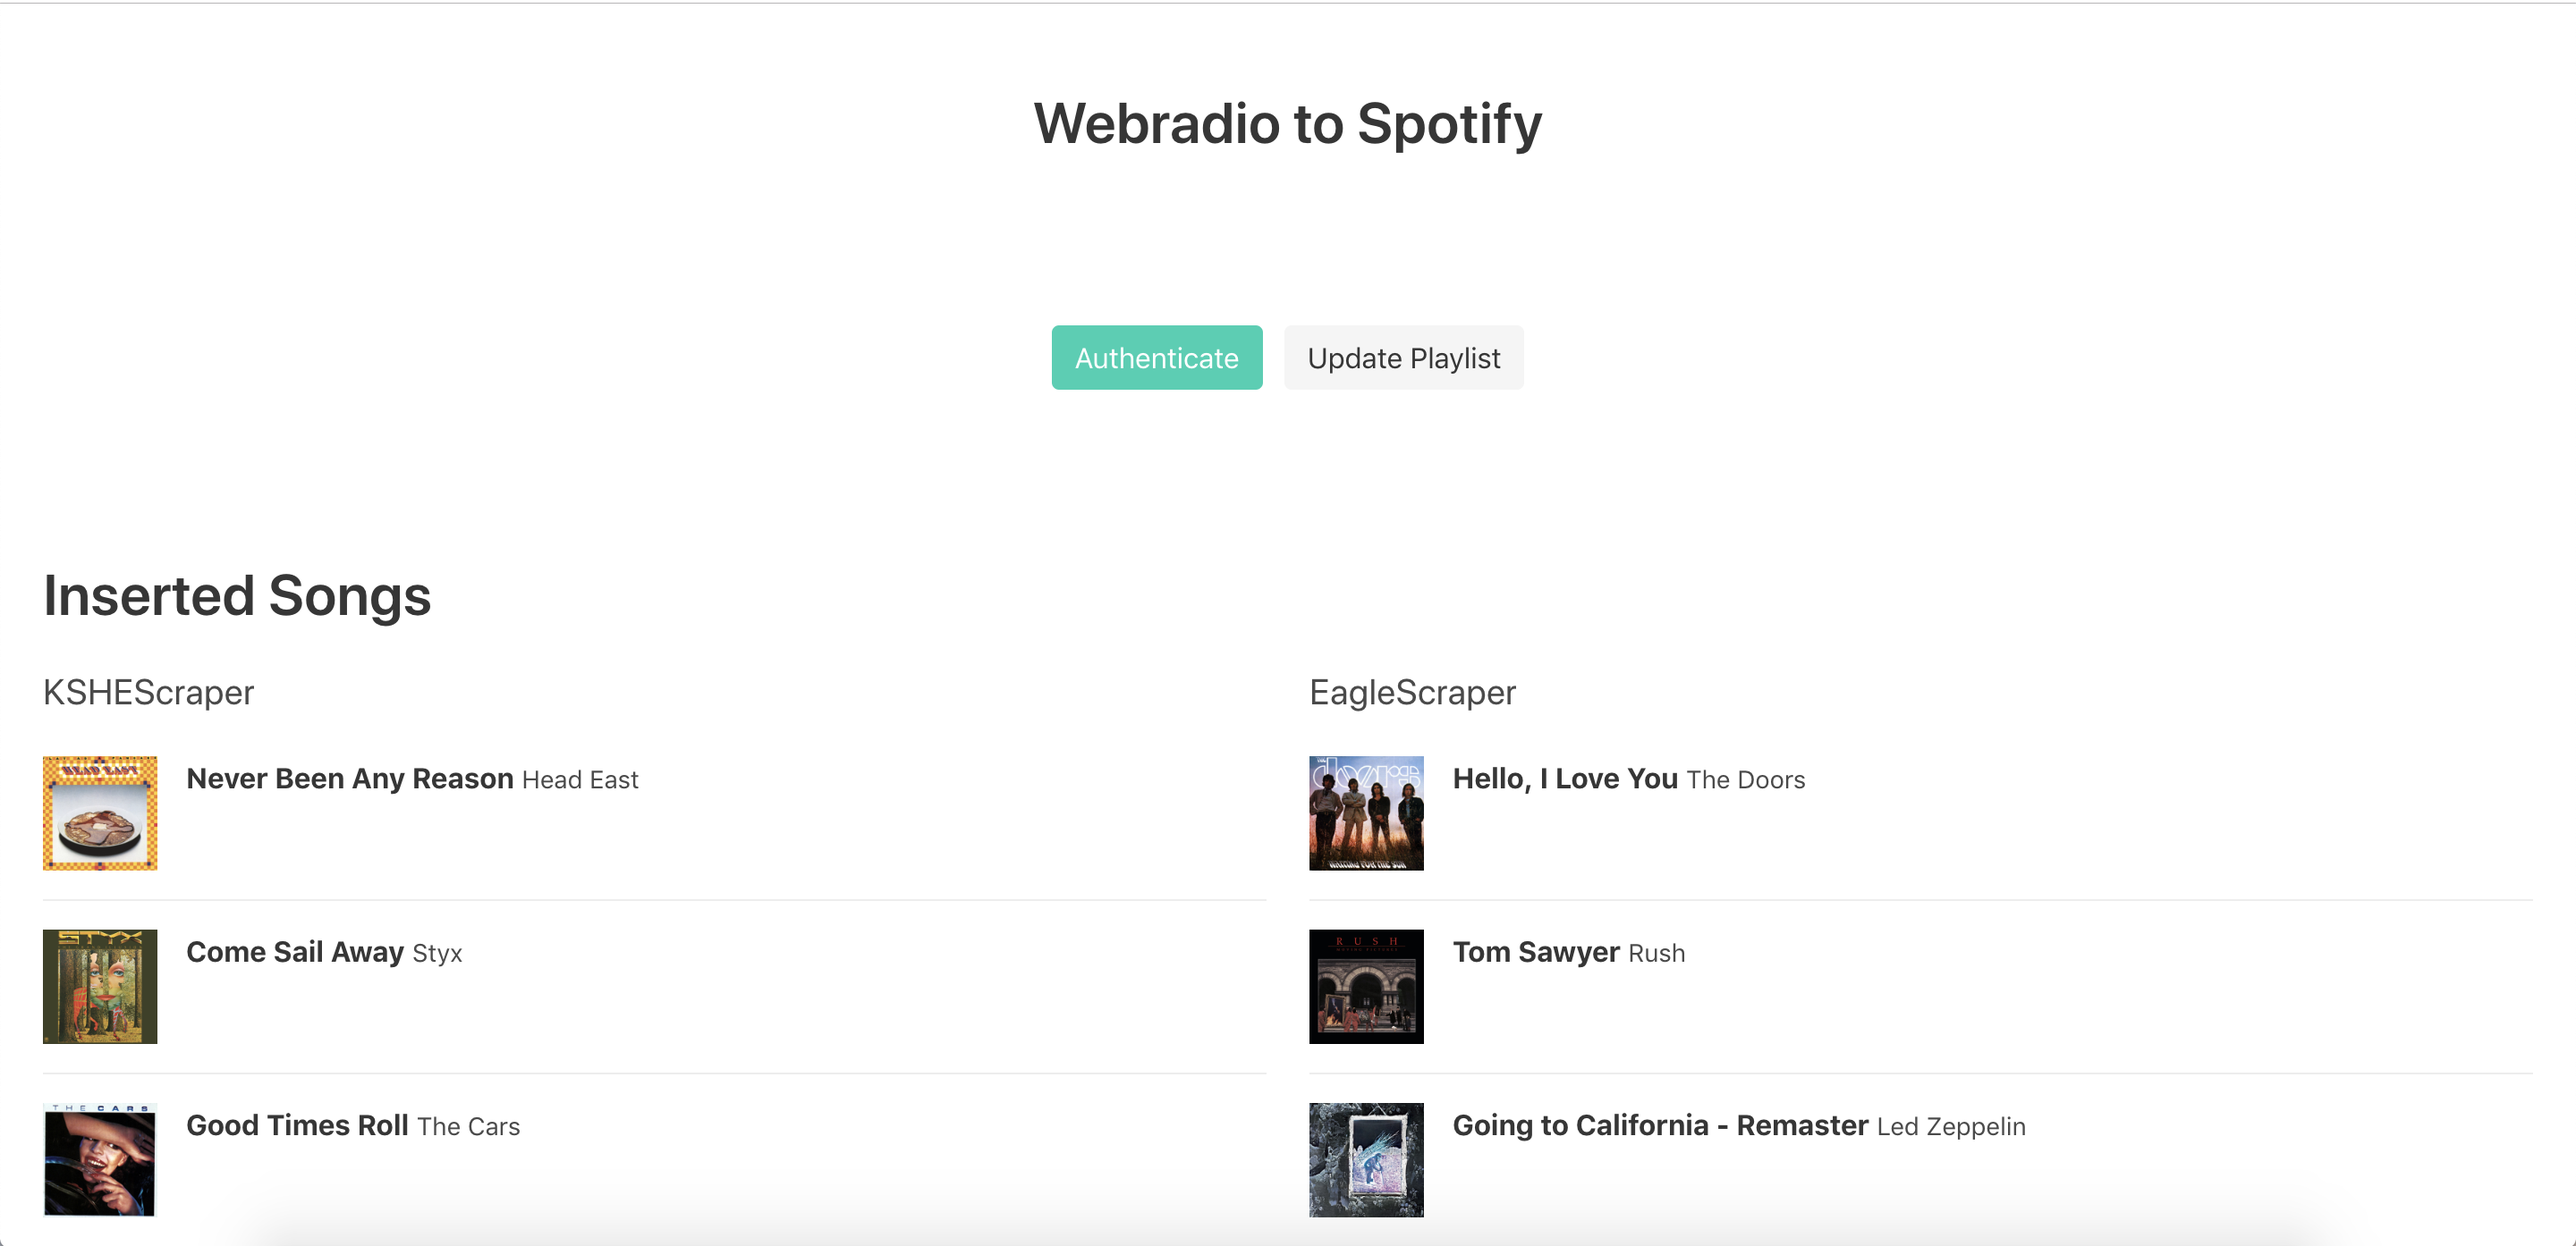
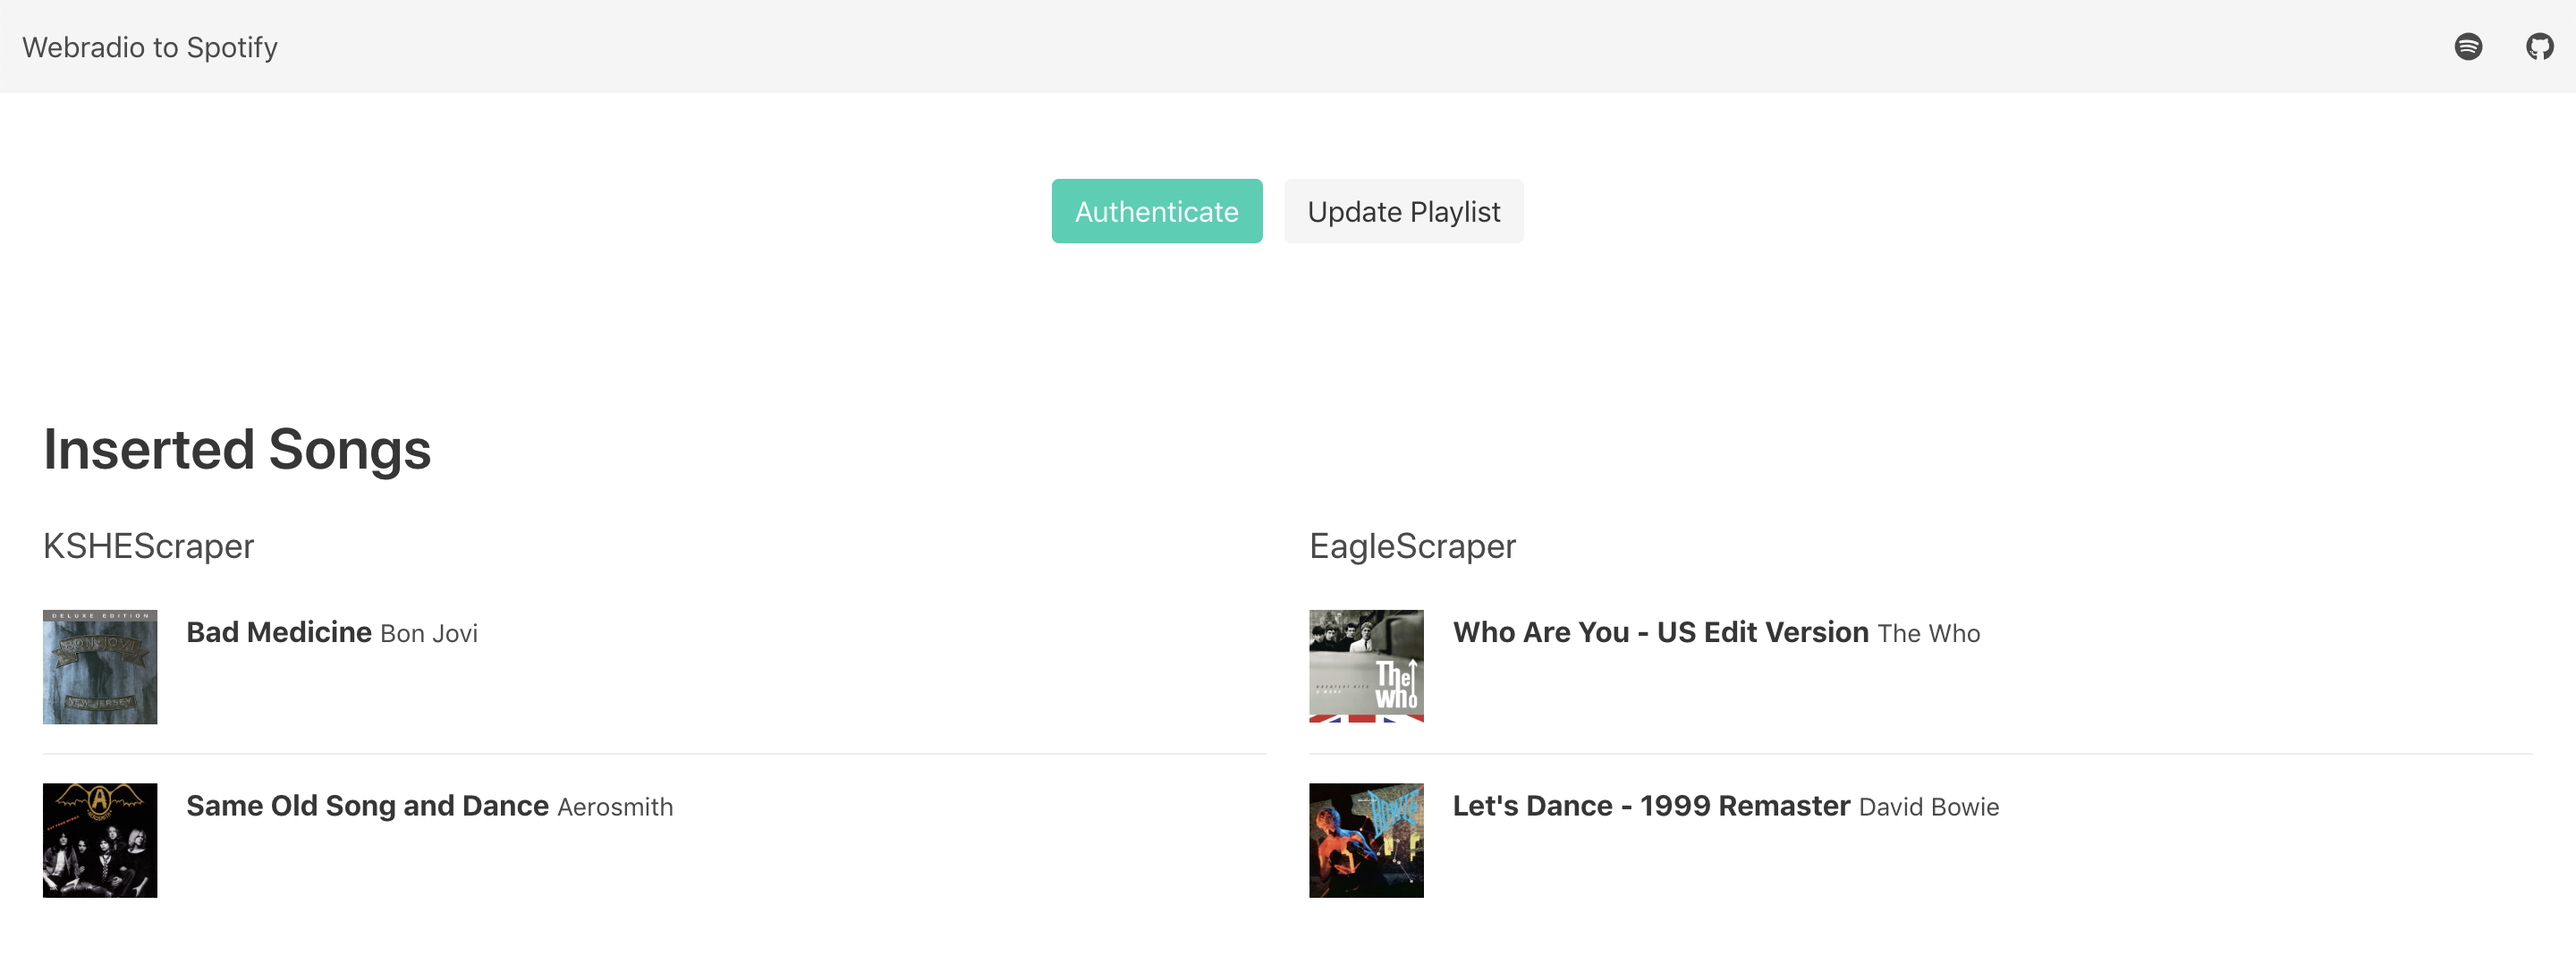
better UI

diff --git a/src/application/templates/base.html b/src/application/templates/base.html
@@ -14,13 +14,24 @@
     <title>Webradio to Spotify - {% block title %}{% endblock %}</title>
 
     <body>
-        <section class="section">
-            <nav class="level">
-                <p class="level-item has-text-centered title">
+        <nav class="navbar has-background-light" role="navigation" aria-label="main navigation">
+            <div class="navbar-brand">
+                <a class="navbar-item" href="{{ url_for('web.index') }}">
                     Webradio to Spotify
-                </p>
-                </nav>
-        </section>
+                </a>
+            </div>
+
+            <div class="navbar-menu">
+                <div class="navbar-end">
+                    <a class="navbar-item" href="https://open.spotify.com/playlist/3BCcE8T945z1MnfPWkFsfX?si=Y7Tpl6ZAQKCtjxnynm_ZIQ">
+                        <i class="fab fa-spotify"></i>
+                    </a>
+                    <a class="navbar-item" href="https://github.com/ericdaat/webradio-to-spotify">
+                        <i class="fab fa-github"></i>
+                    </a>
+                </div>
+            </div>
+        </nav>
         {% block body %}
         {% endblock %}
     </body>
